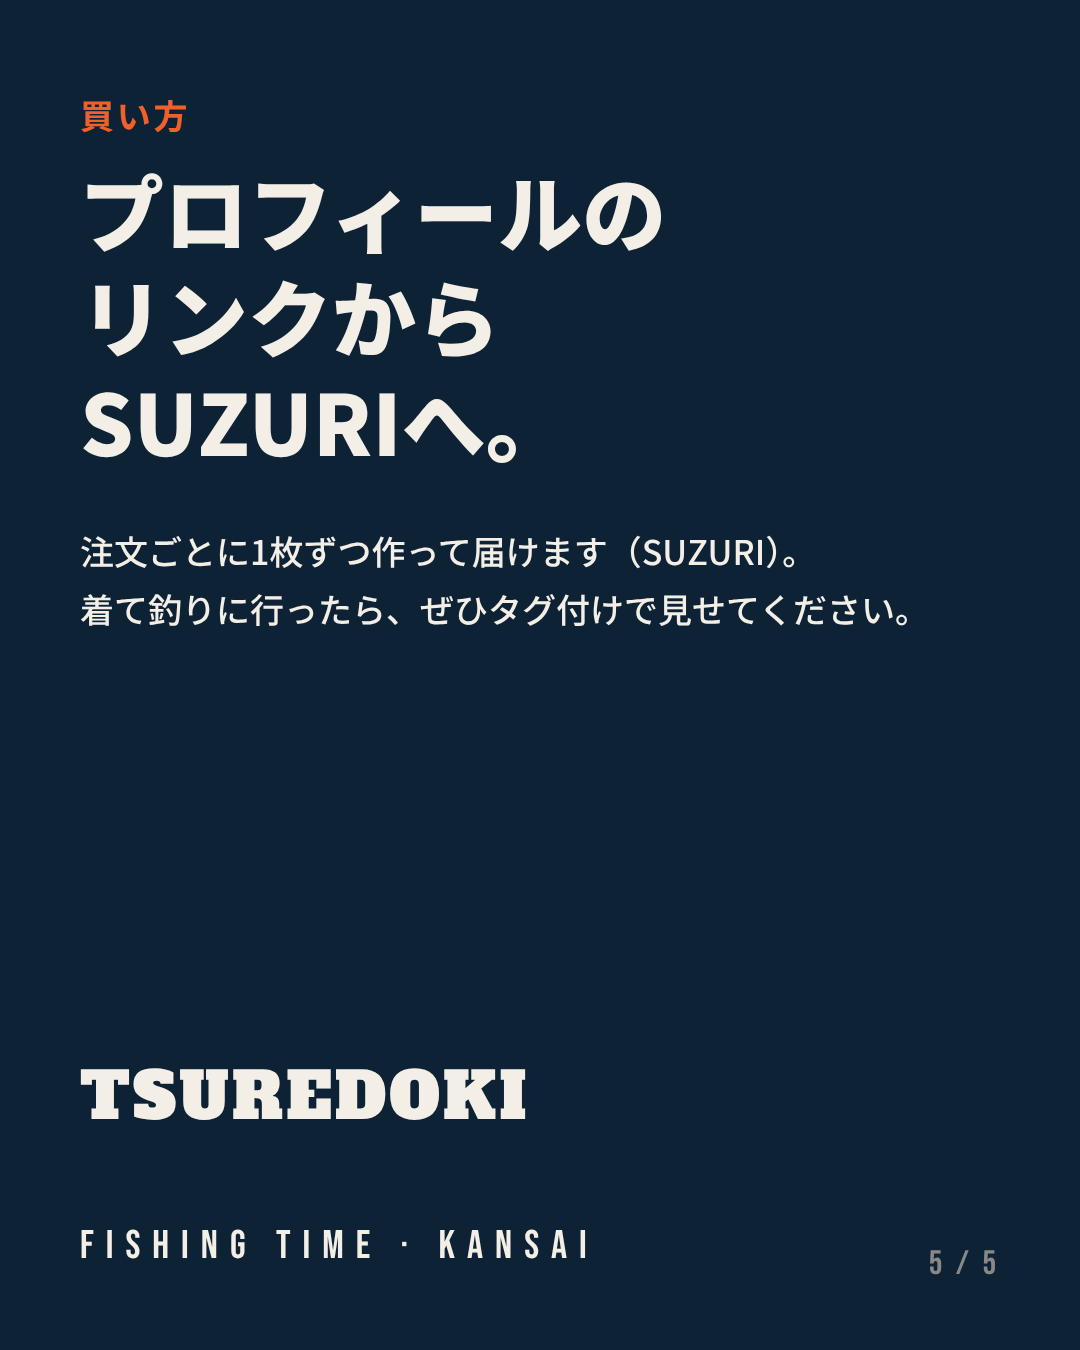
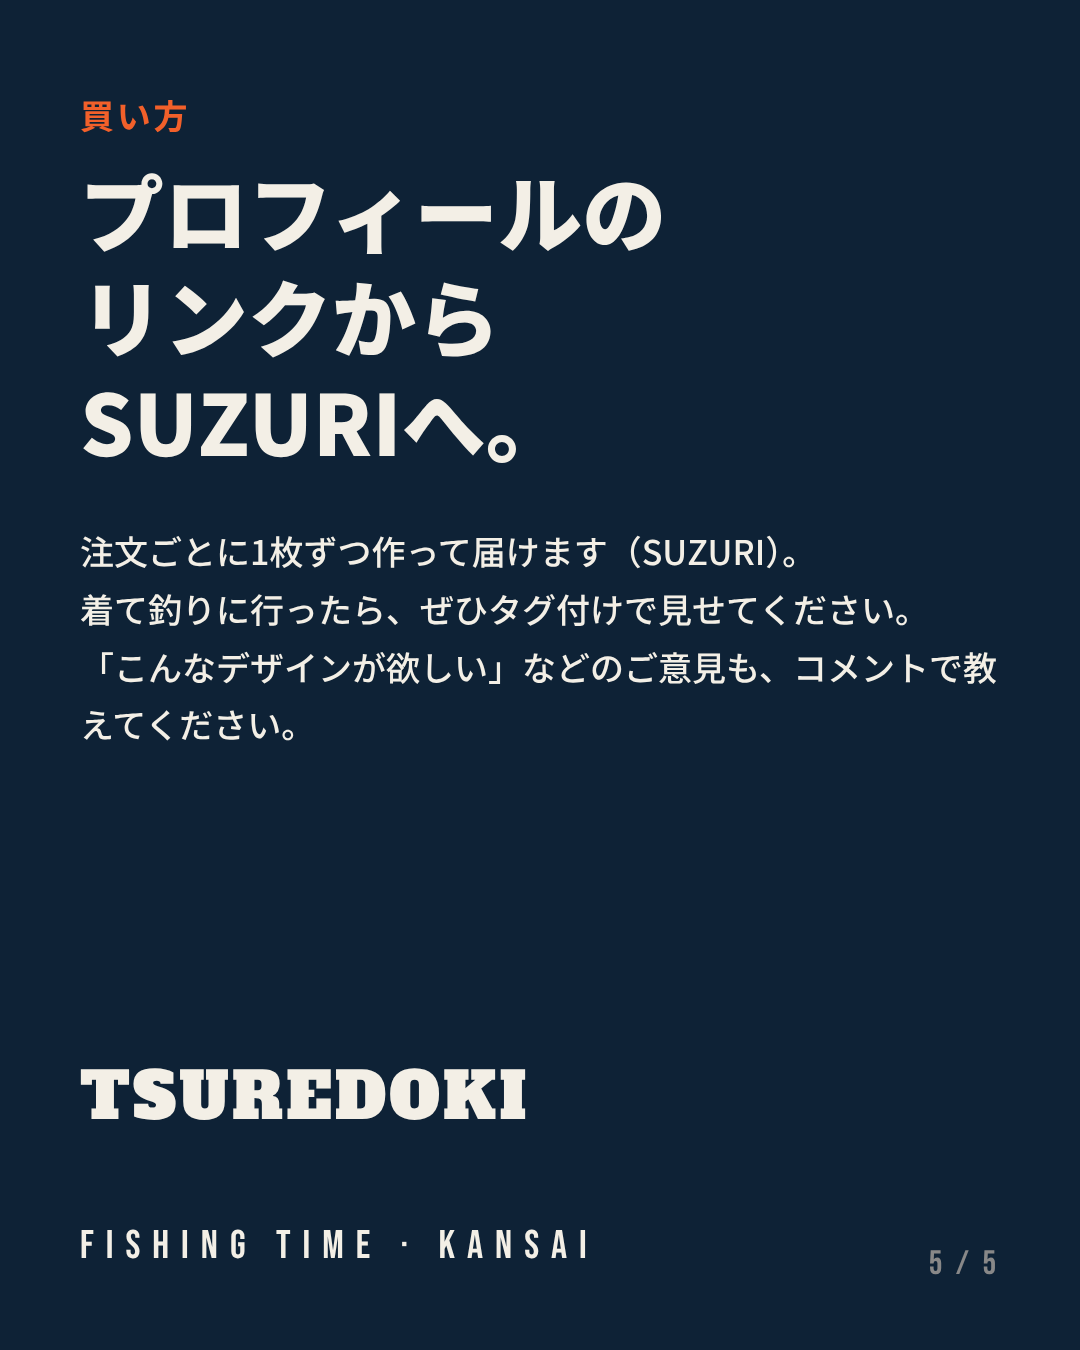
グッズ告知：最後にデザインのご意見募集を追加
Claude-Session: https://claude.ai/code/session_0136AjP6UKpQXASPdXzdeXrp

diff --git a/scripts/goods/promo_reel.py b/scripts/goods/promo_reel.py
@@ -15,6 +15,7 @@ LINES = [
     "生地は、汗をかいてもさらっと乾く、ドライ素材です。",
     "カラーは、ホワイト、アイスグレー、ブラックの3色。",
     "プロフィールのリンクから、SUZURIで買えます。",
+    "こんなデザインが欲しい、などのご意見があれば、コメントで教えてください。",
 ]
 SEC = [3.0] * len(LINES)
 voice = []
